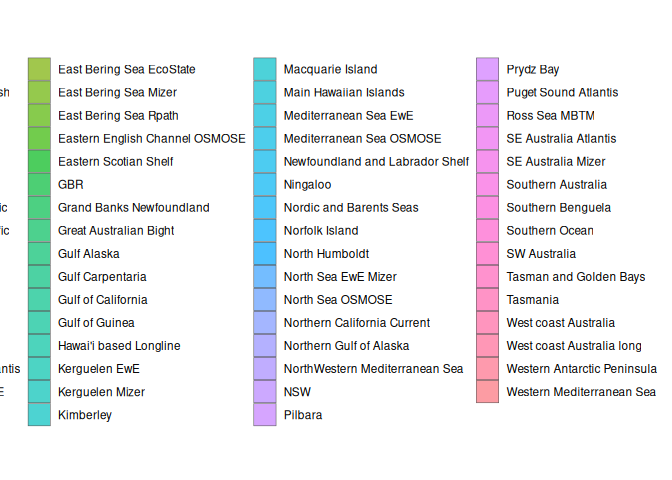
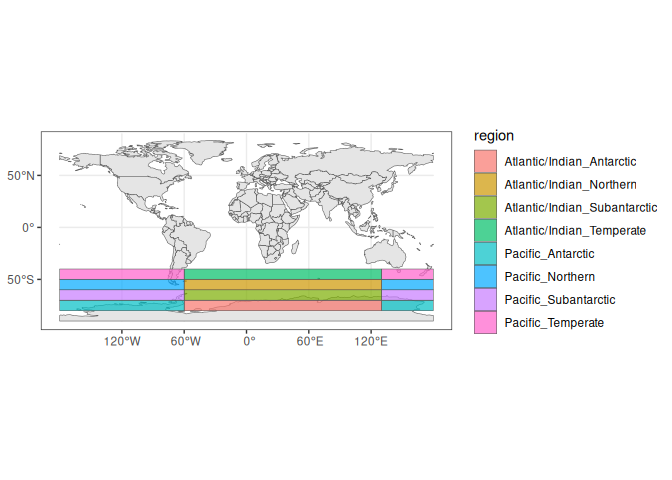
correcting small typos

Changed region(s): [[0.0, 0.0938, 1.0, 0.9062]]

diff --git a/scripts/03a_Regional_Models_2DMasks.md b/scripts/03a_Regional_Models_2DMasks.md
@@ -78,10 +78,9 @@ are two polygons for a region, they will be classified as that region.
 
 ``` r
 #Loading shapefile
-southern_ocean <- file.path(
+southern_ocean <- read_sf(file.path(
   "/rd/gem/private/shared_resources/Shapefiles_Regions/Southern-Ocean_MICE",
-  "SupportInfo/SouthernOcean_MICE.shp") |> 
-  read_sf() |> 
+  "SupportInfo/SouthernOcean_MICE.shp")) |> 
   #Uniting region and band columns
   unite("region", region, band)
 
@@ -98,7 +97,7 @@ southern_ocean <- southern_ocean |>
 ne_countries(returnclass = "sf") |> 
   ggplot()+
   geom_sf()+
-  geom_sf(inherit.aes = F, data = southern_ocean, aes(fill = region), 
+  geom_sf(inherit.aes = FALSE, data = southern_ocean, aes(fill = region), 
           alpha = 0.7)+
   theme_bw()
 ```
@@ -119,8 +118,8 @@ models and ESMs. We will list all the files contained in that folder.
 samples_dir <- "/rd/gem/private/shared_resources/grid_cell_area_ESMs"
 
 #Getting a list of sample rasters in the isimip folders
-sample_rasters <- list.files(samples_dir, pattern = ".nc$", full.names = T,
-                             recursive = T) |> 
+sample_rasters <- list.files(samples_dir, pattern = ".nc$", full.names = TRUE,
+                             recursive = TRUE) |> 
   str_subset("isimip")
 
 #Checking results
@@ -146,7 +145,8 @@ shp_to_raster <- function(shp, raster_path, field, name_sufix, out_folder){
   #Create name for mask to be saved from original raster sample
   file_out <- str_replace(basename(raster_path), "global_fixed", name_sufix)
   file_out <- file.path(out_folder, file_out)
-  writeCDF(shp_rast, file_out, overwrite = T, varname = "region", missval = NA)
+  writeCDF(shp_rast, file_out, overwrite = TRUE, varname = "region", 
+           missval = NA)
 }
 ```
 
@@ -156,21 +156,66 @@ Applying function to all raster samples.
 #Ensure output folder exists
 out_folder <- "/rd/gem/private/shared_resources/SouthernOceanMasks"
 if(!dir.exists(out_folder)){
-  dir.create(out_folder, recursive = T)}
+  dir.create(out_folder, recursive = TRUE)}
 
 #Applying function creating masks
-for(ras in sample_rasters){
-  shp_to_raster(southern_ocean, ras, "id", "Southern_Ocean_mask", out_folder)
-}
+sample_rasters |> 
+  map(\(x) shp_to_raster(southern_ocean, x, "id", "Southern_Ocean_mask", 
+                         out_folder))
 ```
+
+    ## Warning: [rast] guessed crs
+
+    ## [[1]]
+    ## class       : SpatRaster
+    ## size        : 720, 1440, 1  (nrow, ncol, nlyr)
+    ## dimensions  : longitude, latitude (1440, 720}
+    ## resolution  : 0.25, 0.25  (x, y)
+    ## extent      : -180, 180, -90, 90  (xmin, xmax, ymin, ymax)
+    ## coord. ref. : lon/lat WGS 84 (CRS84) (OGC:CRS84)
+    ## source      : gfdl-mom6-cobalt2_areacello_15arcmin_Southern_Ocean_mask.nc
+    ## varname     : region
+    ## name        : region
+    ## 
+    ## [[2]]
+    ## class       : SpatRaster
+    ## size        : 180, 360, 1  (nrow, ncol, nlyr)
+    ## dimensions  : longitude, latitude (360, 180}
+    ## resolution  : 1, 1  (x, y)
+    ## extent      : -180, 180, -90, 90  (xmin, xmax, ymin, ymax)
+    ## coord. ref. : lon/lat WGS 84 (CRS84) (OGC:CRS84)
+    ## source      : gfdl-mom6-cobalt2_areacello_60arcmin_Southern_Ocean_mask.nc
+    ## varname     : region
+    ## name        : region
+    ## 
+    ## [[3]]
+    ## class       : SpatRaster
+    ## size        : 180, 360, 1  (nrow, ncol, nlyr)
+    ## dimensions  : longitude, latitude (360, 180}
+    ## resolution  : 1, 1  (x, y)
+    ## extent      : -180, 180, -90, 90  (xmin, xmax, ymin, ymax)
+    ## coord. ref. : lon/lat WGS 84 (CRS84) (OGC:CRS84)
+    ## source      : gfdl-esm4_areacello_w-fractions_60arcmin_Southern_Ocean_mask.nc
+    ## varname     : region
+    ## name        : region
+    ## 
+    ## [[4]]
+    ## class       : SpatRaster
+    ## size        : 180, 360, 1  (nrow, ncol, nlyr)
+    ## dimensions  : longitude, latitude (360, 180}
+    ## resolution  : 1, 1  (x, y)
+    ## extent      : -180, 180, -90, 90  (xmin, xmax, ymin, ymax)
+    ## coord. ref. : lon/lat WGS 84 (CRS84) (OGC:CRS84)
+    ## source      : ipsl-cm6a-lr_areacello_wo-fractions_60arcmin_Southern_Ocean_mask.nc
+    ## varname     : region
+    ## name        : region
 
 # Plotting mask
 
 We will plot one mask to ensure it has been correctly created.
 
 ``` r
-ras <- rast(list.files("/rd/gem/private/shared_resources/SouthernOceanMasks/", 
-                       "w-fractions", full.names = T))
+ras <- rast(list.files(out_folder, "w-fractions", full.names = TRUE))
 plot(ras)
 ```
 
@@ -200,12 +245,56 @@ fishmip_reg <- read_sf(
 out_folder <- file.path("/rd/gem/private/shared_resources/FishMIPMasks",
                         "merged_regional_fishmip")
 if(!dir.exists(out_folder)){
-  dir.create(out_folder, recursive = T)}
+  dir.create(out_folder, recursive = TRUE)}
 
 #Applying function creating masks
-for(ras in sample_rasters){
-  shp_to_raster(fishmip_reg, ras, 1, "fishMIP_regional_merged", out_folder)
-}
+sample_rasters |>
+  map(\(x) shp_to_raster(fishmip_reg, x, 1, "fishMIP_regional_merged", 
+                         out_folder))
 ```
 
     ## Warning: [rast] guessed crs
+
+    ## [[1]]
+    ## class       : SpatRaster
+    ## size        : 720, 1440, 1  (nrow, ncol, nlyr)
+    ## dimensions  : longitude, latitude (1440, 720}
+    ## resolution  : 0.25, 0.25  (x, y)
+    ## extent      : -180, 180, -90, 90  (xmin, xmax, ymin, ymax)
+    ## coord. ref. : lon/lat WGS 84 (CRS84) (OGC:CRS84)
+    ## source      : gfdl-mom6-cobalt2_areacello_15arcmin_fishMIP_regional_merged.nc
+    ## varname     : region
+    ## name        : region
+    ## 
+    ## [[2]]
+    ## class       : SpatRaster
+    ## size        : 180, 360, 1  (nrow, ncol, nlyr)
+    ## dimensions  : longitude, latitude (360, 180}
+    ## resolution  : 1, 1  (x, y)
+    ## extent      : -180, 180, -90, 90  (xmin, xmax, ymin, ymax)
+    ## coord. ref. : lon/lat WGS 84 (CRS84) (OGC:CRS84)
+    ## source      : gfdl-mom6-cobalt2_areacello_60arcmin_fishMIP_regional_merged.nc
+    ## varname     : region
+    ## name        : region
+    ## 
+    ## [[3]]
+    ## class       : SpatRaster
+    ## size        : 180, 360, 1  (nrow, ncol, nlyr)
+    ## dimensions  : longitude, latitude (360, 180}
+    ## resolution  : 1, 1  (x, y)
+    ## extent      : -180, 180, -90, 90  (xmin, xmax, ymin, ymax)
+    ## coord. ref. : lon/lat WGS 84 (CRS84) (OGC:CRS84)
+    ## source      : gfdl-esm4_areacello_w-fractions_60arcmin_fishMIP_regional_merged.nc
+    ## varname     : region
+    ## name        : region
+    ## 
+    ## [[4]]
+    ## class       : SpatRaster
+    ## size        : 180, 360, 1  (nrow, ncol, nlyr)
+    ## dimensions  : longitude, latitude (360, 180}
+    ## resolution  : 1, 1  (x, y)
+    ## extent      : -180, 180, -90, 90  (xmin, xmax, ymin, ymax)
+    ## coord. ref. : lon/lat WGS 84 (CRS84) (OGC:CRS84)
+    ## source      : ipsl-cm6a-lr_areacello_wo-fractions_60arcmin_fishMIP_regional_merged.nc
+    ## varname     : region
+    ## name        : region
